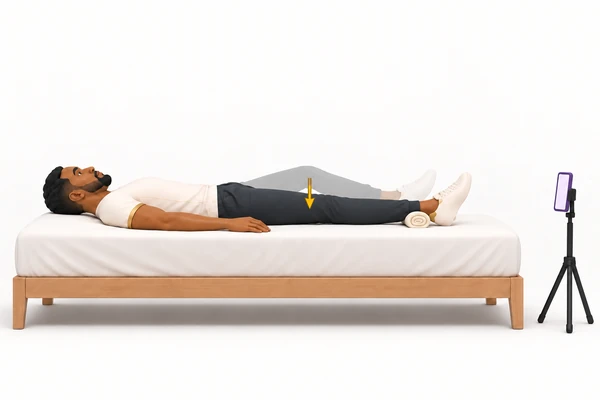
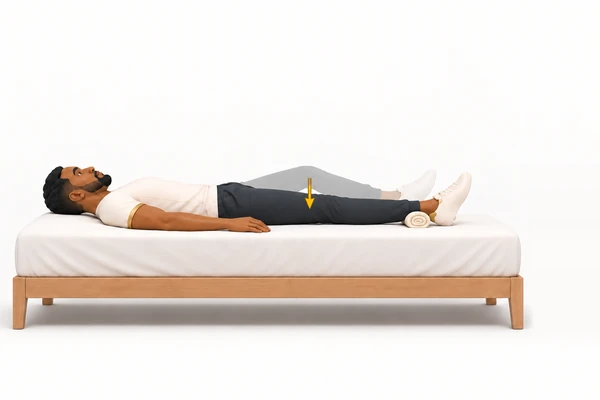
v7 visuals: the phone leaves the 12 side view movement pictures
The phone stood in front of the person, while each movement's steps say to turn the side toward
the phone. The person and the moving limb were right, so each picture now shows exactly what the
phone sees, and the steps say where it goes. Front view, walk and landing pictures are unchanged.
The originals stay in local-docs/visuals/v7-masters/with-phone/.

Changed region(s): [[0.87, 0.42, 0.99, 0.84]]

diff --git a/docs/v7-visuals/RESULT.md b/docs/v7-visuals/RESULT.md
@@ -56,3 +56,8 @@ Movement loops, MP4 files, and video playback were excluded at the user's reques
 بقي تعديل المستخدم السابق في `README.md` دون تغيير ودون إدراجه في التزامات هذا العمل. لم يُفتح ملف `.env.local` أو يُطبع أو يُعدّل، ولم تُعدّل الملفات المحظورة.
 
 The user's preexisting `README.md` change remains untouched and outside these commits. `.env.local` was not opened, printed, or edited, and the prohibited directories were not modified.
+
+**Tech lead review (8 October 2026) / مراجعة قائد التقنية**
+
+- The masters and the review screenshots are kept privately in `local-docs/visuals/v7-masters/` and `local-docs/qa/v7/visuals-screenshots/`, not in the public repository, so the links to `masters/` and `screenshots/` above point to those folders.
+- In the 12 side view movement pictures the phone stood in front of the person, while the steps say to turn the side toward the phone. The person and the moving limb were right (facing right shows the right side). The phone and tripod were removed from those 12, so each picture is now exactly what the phone sees; the steps say where it goes. The originals are kept in `local-docs/visuals/v7-masters/with-phone/`. The front view pictures, the walk pictures and the landing pictures are unchanged.
